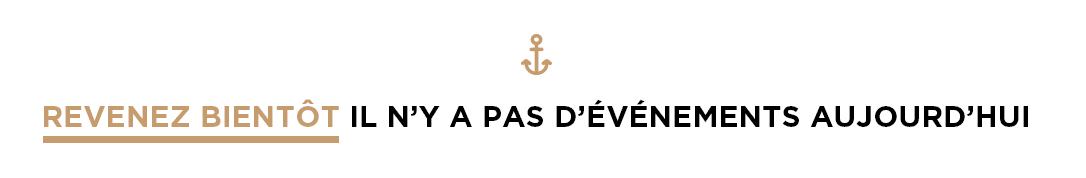
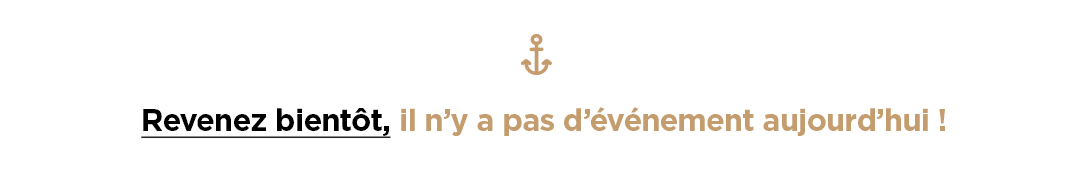
add no event img in fr and en

Changed region(s): [[0.0304, 0.5618, 0.9724, 0.8146]]

diff --git a/archive-yatchsevenement.php b/archive-yatchsevenement.php
@@ -63,7 +63,14 @@ get_header();
                 <?php wp_reset_postdata(); ?>
 
             <?php else: ?>
-                <img src="<?php echo get_template_directory_uri() . '/img/no-event.png'; ?>" class="img-fluid" style="margin-bottom:40px;" />
+                <?php
+                    if (ICL_LANGUAGE_CODE == "fr") {
+                        $noEventImg = 'no-event.png';
+                    } else {
+                        $noEventImg = 'no-event-en.png';
+                    }
+                    ?>
+                <img src="<?php echo get_template_directory_uri() . '/img/'.$noEventImg; ?>" class="img-fluid" style="margin-bottom:40px;" />
 
             <?php endif; ?>
 
